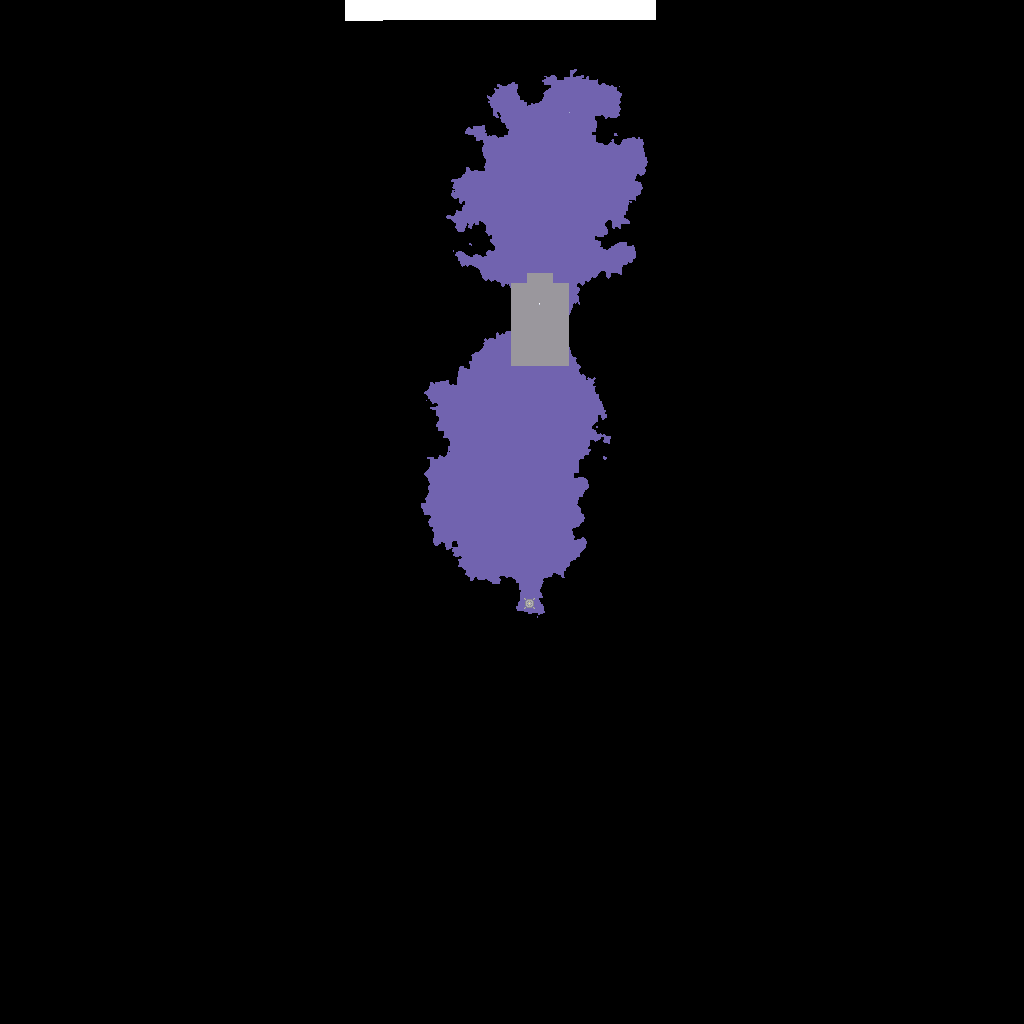
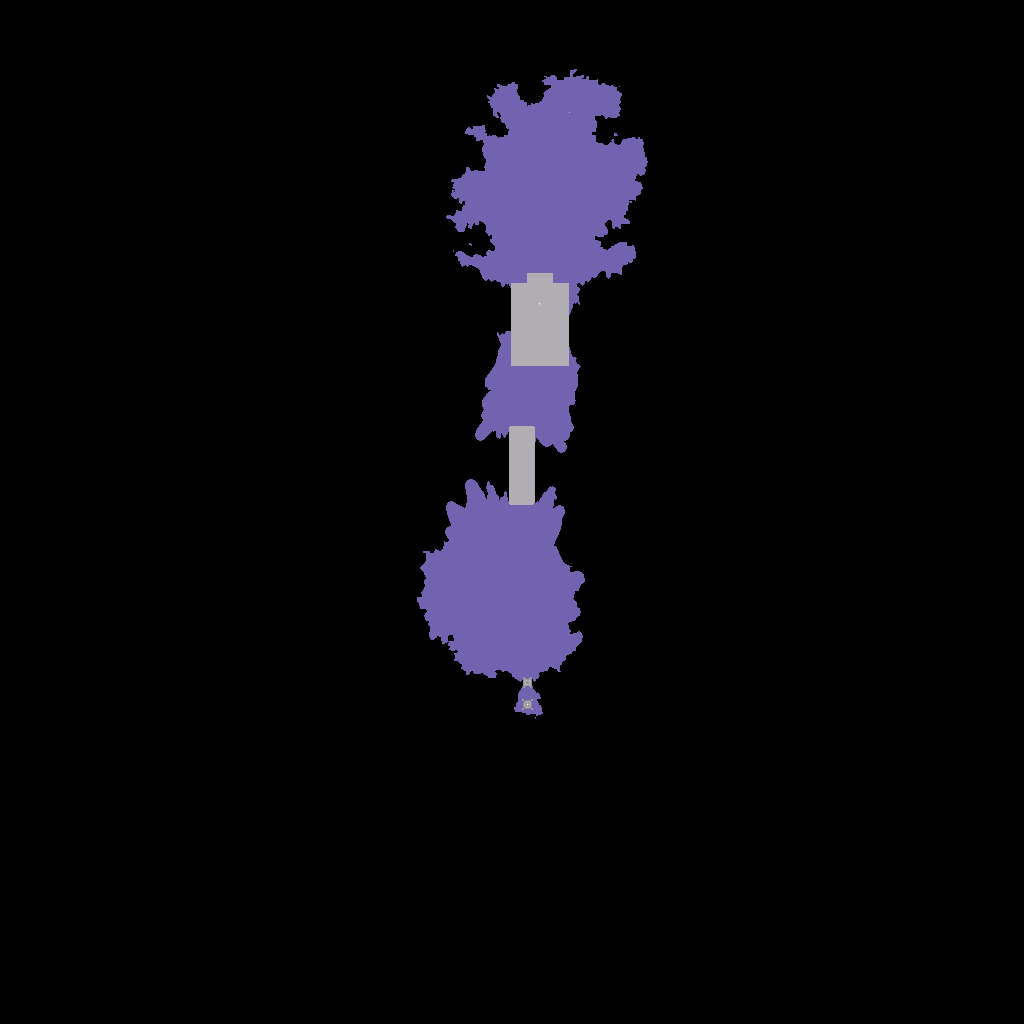
Added a few more structures, map edits

Changed region(s): [[0.4062, 0.3125, 0.5938, 0.7188], [0.3125, 0.0, 0.6562, 0.0312]]

diff --git a/core/src/io/anuke/home/entities/enemies/Boss.java b/core/src/io/anuke/home/entities/enemies/Boss.java
@@ -4,9 +4,11 @@ import com.badlogic.gdx.graphics.Color;
 import com.badlogic.gdx.math.Vector2;
 
 import io.anuke.home.entities.Enemy;
+import io.anuke.home.entities.Projectile;
 import io.anuke.home.entities.Projectiles;
 import io.anuke.ucore.core.Draw;
 import io.anuke.ucore.core.Effects;
+import io.anuke.ucore.entities.Entities;
 import io.anuke.ucore.util.Geometry;
 import io.anuke.ucore.util.Mathf;
 import io.anuke.ucore.util.Timers;
@@ -19,7 +21,7 @@ public class Boss extends Enemy{
 	private float startx, starty;
 	
 	private float rotation = 0f;
-	private Phase phase = Phase.values()[0];
+	private Phase phase = Phase.values()[3];
 	private float phasetime = 800f;
 	
 	public Boss(){
@@ -79,29 +81,56 @@ public class Boss extends Enemy{
 		});
 	}
 	
+	public void onDeath(){
+		Effects.shake(10, 60f);
+		Effects.effect("wraithdie", x, y+10);
+		
+		for(int i = 0; i < 40; i ++){
+			Timers.run(Mathf.random(55), ()->{
+				Effects.effect("purpleblood", x + Mathf.range(20), y + Mathf.range(20));
+			});
+			
+		}
+		
+		Entities.getNearby(x, y, 300, e->{
+			if(e instanceof Projectile && e != this){
+				Effects.effect("shotshrink", e);
+				e.remove();
+			}
+		});
+		
+		remove();
+	}
+	
 	public void reset(){
 		phase = Phase.values()[0];
-		set(startx, starty);
+		x = startx;
+		y = starty;
 	}
 	
 	public void move(){
 		//who needs actual state machines? /s
 		
+		float height = 12f;
+		
 		if(Timers.get(this, "changephase", phasetime)){
 			Phase next = Phase.values()[(phase.ordinal() + 1) % Phase.values().length];
+			if(next == Phase.idle)
+				next = Phase.values()[1];
 			phase = Phase.idle;
 			
+			Phase fin = next;
+			
 			Timers.run(120, ()->{
-				phase = next;
+				if(target != null) 
+					rotation = angleTo(target, height);
+				phase = fin;
 			});
 		}
-		
 		if(phase != Phase.chase && phase != Phase.spam){
 			x = Mathf.lerp(x, startx, 0.03f*delta);
 			y = Mathf.lerp(y, starty, 0.03f*delta);
 		}
-		
-		float height = 12f;
 		
 		if(phase == Phase.swirl){
 			if(Timers.get(this, "circle", 1)){
@@ -109,15 +138,16 @@ public class Boss extends Enemy{
 				rotation += 22f;
 			}
 		}else if(phase == Phase.blast){
-			if(Timers.get(this, "blast", 40)){
+			if(Timers.get(this, "blast", 30)){
 				eyeflash = 1f;
-				Geometry.circle(6, f->{
-					shoot(Projectiles.golemsplitshot, x, y+height, f);
+				rotation += 15f;
+				Geometry.circle(8, f->{
+					shoot(Projectiles.golemsplitshot, x, y+height, f + rotation);
 				});
 			}
 		}else if(phase == Phase.seek){
 			if(Timers.get(this, "seek", 2)){
-				shoot(Projectiles.tentashot, x, y+height, angleTo(target, height)+Mathf.range(40f));
+				shoot(Projectiles.tentashot, x, y+height, angleTo(target, height)+Mathf.range(50f));
 			}
 		}else if(phase == Phase.chase){
 			if(Timers.get(this, "chase", 90)){
@@ -172,11 +202,10 @@ public class Boss extends Enemy{
 		}else if(phase == Phase.lanes){
 			if(Timers.get(this, "lanes", 20)){
 				
-				float offset = 360f*(Timers.getTime(this, "changephase") / phasetime);
-				
+				float offset = rotation+360f*(Timers.getTime(this, "changephase") / phasetime);
 				
 				for(int i = 0; i < 2; i ++)
-				Geometry.shotgun(16, 10, i*180+offset, f->{
+				Geometry.shotgun(16, 10, i*180+offset+30, f->{
 					shoot(Projectiles.shadowshot, x, y+height, f);
 				});
 			}
@@ -186,8 +215,8 @@ public class Boss extends Enemy{
 	
 	public Boss set(float x, float y){
 		super.set(x-6f, y-12f);
-		startx = x;
-		starty = y;
+		startx = this.x;
+		starty = this.y;
 		return this;
 	}
 	

diff --git a/core/src/io/anuke/home/Control.java b/core/src/io/anuke/home/Control.java
@@ -4,15 +4,15 @@ import com.badlogic.gdx.Gdx;
 import com.badlogic.gdx.Input.Keys;
 import com.badlogic.gdx.graphics.Color;
 import com.badlogic.gdx.graphics.Texture;
+import com.badlogic.gdx.utils.Array;
 
 import io.anuke.gif.GifRecorder;
 import io.anuke.home.GameState.State;
+import io.anuke.home.entities.Enemy;
 import io.anuke.home.entities.Player;
 import io.anuke.home.world.Tile;
 import io.anuke.home.world.World;
-import io.anuke.ucore.core.Inputs;
-import io.anuke.ucore.core.KeyBinds;
-import io.anuke.ucore.core.Settings;
+import io.anuke.ucore.core.*;
 import io.anuke.ucore.entities.Entities;
 import io.anuke.ucore.graphics.Atlas;
 import io.anuke.ucore.graphics.Textures;
@@ -25,6 +25,7 @@ public class Control extends RendererModule{
 	public Player player;
 	private GifRecorder recorder = new GifRecorder(batch);
 	private Tile checkpoint;
+	private Array<Enemy> killed = new Array<>();
 	
 	public Control(){
 		atlas = new Atlas("projecthome.atlas");
@@ -71,27 +72,40 @@ public class Control extends RendererModule{
 		reset();
 	}
 	
+	public void addKill(Enemy e){
+		killed.add(e);
+	}
+	
 	public void onDeath(){
 		Vars.ui.showDeath();
 	}
 	
 	public void addCheckpoint(Tile tile){
 		checkpoint = tile;
+		killed.clear();
 	}
 	
 	public void respawn(){
 		player.heal();
-		//player.set(checkpoint.worldx(), checkpoint.worldy()).add();
+		player.set(checkpoint.worldx(), checkpoint.worldy()).add();
 		player.oncheckpoint = true;
+		
+		for(Enemy enemy : killed){
+			enemy.heal();
+			enemy.add();
+		}
+		
+		killed.clear();
 	}
 	
 	public void reset(){
+		killed.clear();
 		Entities.clear();
 		World.addDoors();
 		
 		float center = Vars.worldsize*Vars.tilesize/2f;
 		
-		player = new Player()/*.set(center, center)*/.set(12*569, 12*(1024-110)).add();
+		player = new Player().set(center, center)/*.set(12*569, 12*(1024-110))*/.add();
 		
 		respawn();
 		
@@ -139,6 +153,7 @@ public class Control extends RendererModule{
 		drawBackground();
 		Renderer.renderWorld();
 		
+		Draw.color();
 		RenderableHandler.instance().renderAll();
 		
 		Entities.draw();

diff --git a/core/src/io/anuke/home/world/World.java b/core/src/io/anuke/home/world/World.java
@@ -18,6 +18,7 @@ public class World{
 	private static Tile[][] tiles;
 	private static ObjectMap<Integer, Block> map = new ObjectMap<>();
 	private static ObjectMap<Integer, String> structmap = new ObjectMap<>();
+	private static ObjectMap<String, Pixmap> pixmaps = new ObjectMap<>();
 	private static Array<Door> doors = new Array<Door>();
 	private static Pixmap pixmap;
 
@@ -34,6 +35,7 @@ public class World{
 		map.put(0x9a979dff, Blocks.marbles);
 		map.put(0x89878cff, Blocks.marbles2);
 		map.put(0xffef80ff, Blocks.checkpoint);
+		map.put(0xa297b1ff, Blocks.pwall4);
 		
 		structmap.put(0xa6b3d4ff, "temple");
 		structmap.put(0xcad2e7ff, "dungeon");
@@ -94,9 +96,19 @@ public class World{
 		placeWall(x + rad, y + rad, block);
 	}
 	
+	public static Pixmap loadMap(String name){
+		if(pixmaps.containsKey(name)){
+			return pixmaps.get(name);
+		}else{
+			Pixmap pix = new Pixmap(Gdx.files.internal("maps/"+name + ".png"));
+			pixmaps.put(name, pix);
+			return pix;
+		}
+	}
+	
 	public static void placePix(String name, int cx, int cy){
-		Pixmap pix = new Pixmap(Gdx.files.internal("maps/"+name + ".png"));
-		Pixmap floor = new Pixmap(Gdx.files.internal("maps/"+name + "-floor.png"));
+		Pixmap pix = loadMap(name);
+		Pixmap floor = loadMap(name + "-floor");
 		
 		for(int x = 0; x < pix.getWidth(); x ++){
 			for(int y = 0; y < pix.getHeight(); y ++){
@@ -156,16 +168,13 @@ public class World{
 				}
 			}
 		}
-		
-		pix.dispose();
-		floor.dispose();
 	}
 
 	private static void generate(){
 		Noise.setSeed(Mathf.random(0, 999999));
 		
 		if(pixmap == null)
-			pixmap = new Pixmap(Gdx.files.internal("maps/map-debug.png"));
+			pixmap = loadMap("map-debug");
 
 		for(int x = 0; x < Vars.worldsize; x++){
 			for(int y = 0; y < Vars.worldsize; y++){

diff --git a/core/src/io/anuke/home/items/Items.java b/core/src/io/anuke/home/items/Items.java
@@ -82,11 +82,11 @@ public class Items{
 		reach = 14;
 		chargetime = 20;
 	}}),
-	amberstaff = new Item("amberstaff", new WeaponTypes.Staff(){{
+	amberstaff = new Item("amberstaff", "Amber Staff", new WeaponTypes.Staff(){{
 		damage = 3;
 		speed = 6f;
 	}}),
-	scorchstaff = new Item("scorchstaff", new WeaponTypes.Staff(){{
+	scorchstaff = new Item("scorchstaff", "Scorched Staff", new WeaponTypes.Staff(){{
 			damage = 4;
 			speed = 8f;
 			shooteffect = "scorchblap";
@@ -99,7 +99,7 @@ public class Items{
 			});
 		}
 	}),
-	aetherstaff = new Item("aetherstaff", new WeaponTypes.Staff(){{
+	aetherstaff = new Item("aetherstaff", "Staff of the Aether", new WeaponTypes.Staff(){{
 		damage = 6;
 		speed = 6f;
 		shooteffect = "aetherblap";
@@ -107,14 +107,14 @@ public class Items{
 		projectile = Projectiles.aethershot;
 		shotspacing = 7;
 	}}),
-	orbstaff = new Item("orbstaff", new WeaponTypes.Staff(){{
+	orbstaff = new Item("orbstaff", "Orbcaster", new WeaponTypes.Staff(){{
 		damage = 12;
 		speed = 18f;
 		shooteffect = "orbblap";
 		projectile = Projectiles.orbshot;
 		chargetime = 100;
 	}}),
-	planestaff = new Item("planestaff", new WeaponTypes.Staff(){{
+	planestaff = new Item("planestaff", "Planestaff", new WeaponTypes.Staff(){{
 			damage = 30;
 			speed = 20f;
 			shooteffect = "planeblap";
@@ -125,7 +125,7 @@ public class Items{
 			Effects.shake(2, 1);
 		}
 	}),
-	fusionstaff = new Item("fusionstaff", new WeaponTypes.Staff(){{
+	fusionstaff = new Item("fusionstaff", "Staff of Fused Cores", new WeaponTypes.Staff(){{
 		damage = 10;
 		speed = 6f;
 		shots = 3;

diff --git a/core/src/io/anuke/home/EffectLoader.java b/core/src/io/anuke/home/EffectLoader.java
@@ -207,6 +207,25 @@ public class EffectLoader{
 			Draw.reset();
 		});
 		
+		Effect.create("wraithdie", 40, e->{
+			Draw.thickness(4f);
+			Draw.color(Hue.mix(tent, Color.CLEAR, e.ifract()));
+			
+			float rad = e.fract()*23f;
+			Geometry.randVectors(e.id, 8, e.ifract()*70f, (x, y)->{
+				Draw.rect("circle", e.x+x, e.y+y, rad, rad);
+			});
+			
+			Draw.color(Hue.mix(Color.BLACK, tent, e.ifract()));
+			
+			float rad2 = e.fract()*18f;
+			Geometry.randVectors(e.id+1, 8, e.ifract()*60f, (x, y)->{
+				Draw.rect("circle", e.x+x, e.y+y, rad2, rad2);
+			});
+			
+			Draw.reset();
+		});
+		
 		Effect.create("dash", 7, e->{
 			Draw.thickness(1f);
 			Draw.color(Color.WHITE, Color.GRAY, e.ifract());

diff --git a/core/src/io/anuke/home/world/BlockType.java b/core/src/io/anuke/home/world/BlockType.java
@@ -115,7 +115,7 @@ public enum BlockType{
 			String name = block.name + (block.vary ? Mathf.randomSeed(tile.x*tile.y, 1, block.variants) : "");
 			new SpriteRenderable(name).set(tile.worldx(), tile.worldy()-block.offset)
 			.layer(tile.worldy()+30)
-			.centerX().addShadow(list, name,block.offset+8).sort(Sorter.object).add(list);
+			.center().addShadow(list, name,block.offset+8).sort(Sorter.object).add(list);
 		}
 		
 		public void getHitbox(Tile tile, Block block, Rectangle out){

diff --git a/core/src/io/anuke/home/entities/Creature.java b/core/src/io/anuke/home/entities/Creature.java
@@ -10,7 +10,7 @@ import io.anuke.ucore.util.Mathf;
 import io.anuke.ucore.util.Timers;
 
 public abstract class Creature extends DestructibleEntity{
-	RenderableList list = new RenderableList();
+	protected RenderableList list = new RenderableList();
 	boolean drawn = false;
 	
 	public int frames(float scale, int amount){

diff --git a/core/src/io/anuke/home/entities/Enemy.java b/core/src/io/anuke/home/entities/Enemy.java
@@ -110,7 +110,7 @@ public class Enemy extends Creature{
 	}
 
 	public void onDeath(){
-
+		Vars.control.addKill(this);
 		for(int i = 0; i < 4; i++){
 			Effects.effect("hit", x + Mathf.range(5), y + Mathf.range(5) + height);
 		}
